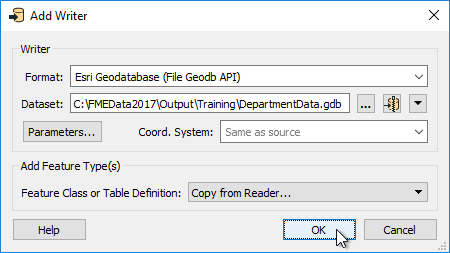
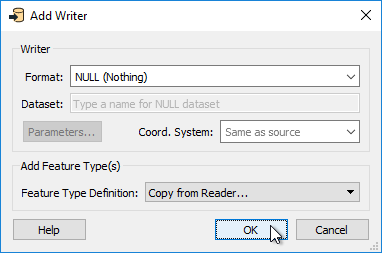
2017 Chapter 1 Exercises 1 and 2 - revisions

diff --git a/ServerAuthoring1Basics/Exercise1.md b/ServerAuthoring1Basics/Exercise1.md
@@ -107,7 +107,7 @@ If you have lots of experience with FME Workbench - <strong>and if your instruct
 
 So start the FME Data Inspector by selecting it from the Windows start menu. Inspect all of the source data to become familiar with it. The VancouverNeighborhoods has a different coordinate system than the other dataset so be careful and turn on a background map if you want to view all the data together.
 
-The goal of our translation will be to convert the Firehalls and Neighborhoods to a Geodatabase, dividing the firehalls data up into a separate table per neighborhood.
+The goal of our translation is to convert the Firehalls and Neighborhoods to a database, dividing the firehalls data up into a separate table per neighborhood.
 
 
 <br>**2) Start FME Workbench**
@@ -173,18 +173,13 @@ This will ensure the neighborhoods data is in the same coordinate system as the 
 
 
 <br>**5) Add Writer**
-<br>Now use Writers &gt; Add Writer on the menubar to add a writer to our workspace. Set up the following parameters:
+<br>Now we should add a writer to the workspace. For now we'll just set up a dummy writer until we are more familiar with FME Server. So select Writers &gt; Add Writer on the menubar to add a writer and set it up with the following parameters:
 
 <table style="border: 0px">
 
 <tr>
 <td style="font-weight: bold">Writer Format</td>
-<td style="">Esri Geodatabase (File Geodb API)</td>
-</tr>
-
-<tr>
-<td style="font-weight: bold">Writer Dataset</td>
-<td style="">C:\FMEData2017\Output\Training\DepartmentData.gdb</td>
+<td style="">NULL (Nothing)</td>
 </tr>
 
 <tr>
@@ -195,8 +190,6 @@ This will ensure the neighborhoods data is in the same coordinate system as the 
 </table>
 
 ![](./Images/Img1.205.Ex1.AddWriterDialog.png)
-
-Before clicking OK, open the parameters dialog and put a checkmark in the box labelled Overwrite Existing Geodatabase.  
 
 Click OK and OK again. When prompted, select both Firehalls and Neighborhoods as the feature types to add:
 
@@ -224,19 +217,15 @@ Connect the Clipper:Inside port to the Firehalls feature type on the writer. Als
 
 
 <br>**7) Set Firehall Feature Type Name**
-<br>Finally, let's set the Feature Class/Table Name for the Firehalls writer feature type.
+<br>Finally, let's set the Feature Type Name for the Firehalls writer feature type.
 
-Inspect its parameters and under Feature Class or Table Name either enter:
+Inspect its parameters and under Feature Type Name either enter:
 
 <pre>
 FireHalls-@Value(NeighborhoodName)
 </pre>
 
-Or click the dropdown and use the text editor dialog to enter that value. This will cause firehalls in each different neighborhood to be written to a different table.
-
-Inspect the parameters for the Neighborhoods feature type. We don't need to split it up by neighborhood (what would be the point?) but we should check the allowed Geometry type and set it to geodb_polygon if it is not already:
-
-![](./Images/Img1.210.Ex1.SetPolyGeomType.png)
+...or click the dropdown and use the text editor dialog to enter that value. This will cause firehalls in each different neighborhood to be written to a different table/layer.
 
 Save the workspace.
 
@@ -246,7 +235,7 @@ Save the workspace.
 
 The first step, one which is very important, is to run the workspace. If the workspace won't run on FME Desktop then it is not likely to run on FME Server.
 
-Run the workspace. Inspect the output. You should get six tables of firehalls and one of neighborhoods:
+Run the workspace. Inspect the log. You should get six tables of firehalls and one of neighborhoods:
 
 ![](./Images/Img1.211.Ex1.WorkspaceOutput.png)
 
@@ -313,7 +302,9 @@ After a workspace is transferred to Server, the log window displays a message re
 <span style="font-family:serif; font-style:italic; font-size:larger">
 By completing this exercise you have learned how to:
 <br>
-<ul><li>Create a workspace converting data to Geodatabase</li>
+<ul><li>Create a workspace converting data to a Null (dummy) format</li>
+<li>Use a Clipper to transfer attribute values from one feature to another</li>
+<li>Rename output layers according to the value of an attribute</li>
 <li>Publish a workspace to FME Server using the Publishing Wizard</li>
 <li>Create a repository on FME Server using the Publishing Wizard</li>
 <li>Register a workspace with the Job Submitter service using the Publishing Wizard</li></ul>

diff --git a/ServerAuthoring1Basics/Exercise2.md b/ServerAuthoring1Basics/Exercise2.md
@@ -9,7 +9,7 @@
 <tr>
 <td width=25% style="vertical-align:middle;background-color:darkorange;border: 2px solid darkorange">
 <i class="fa fa-cogs fa-lg fa-pull-left fa-fw" style="color:white;padding-right: 12px;vertical-align:text-top"></i>
-<span style="color:white;font-size:x-large;font-weight: bold">Exercise 1</span>
+<span style="color:white;font-size:x-large;font-weight: bold">Exercise 2</span>
 </td>
 <td style="border: 2px solid darkorange;background-color:darkorange;color:white">
 <span style="color:white;font-size:x-large;font-weight: bold">Daily Database Updates</span>
@@ -175,7 +175,7 @@ Click on your job to inspect the results in more detail. You will be able to see
 <tr>
 <td style="border: 1px solid darkorange">
 <span style="font-family:serif; font-style:italic; font-size:larger">
-Remember, this workspace did not write any data, only sent it to the Logger. So, for now, to view any results search for them in the log file.
+Remember, this workspace did not write any data, only sent it to a Null writer. So, for now, to view any results search for the summary in the log file.
 </span>
 </td>
 </tr>
